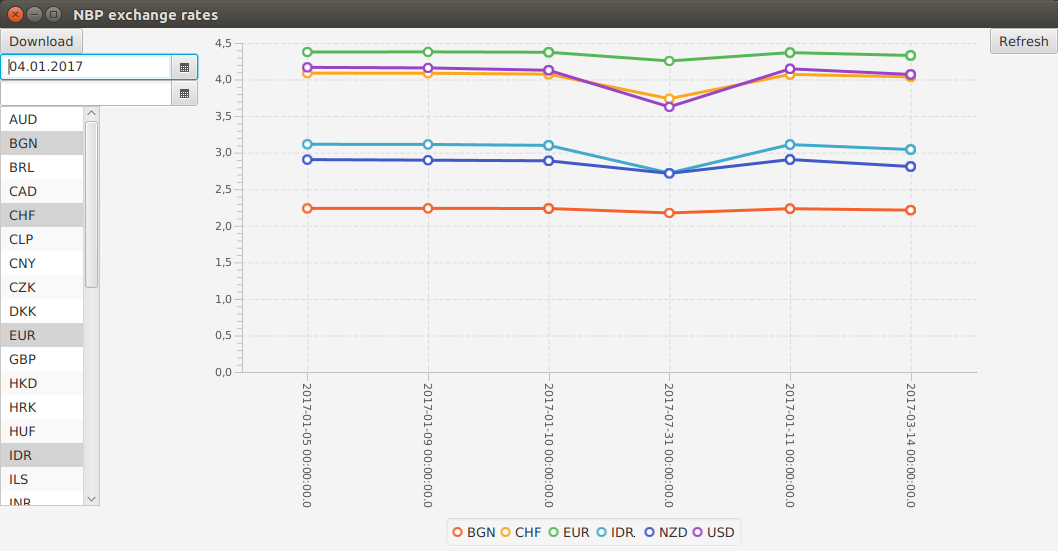
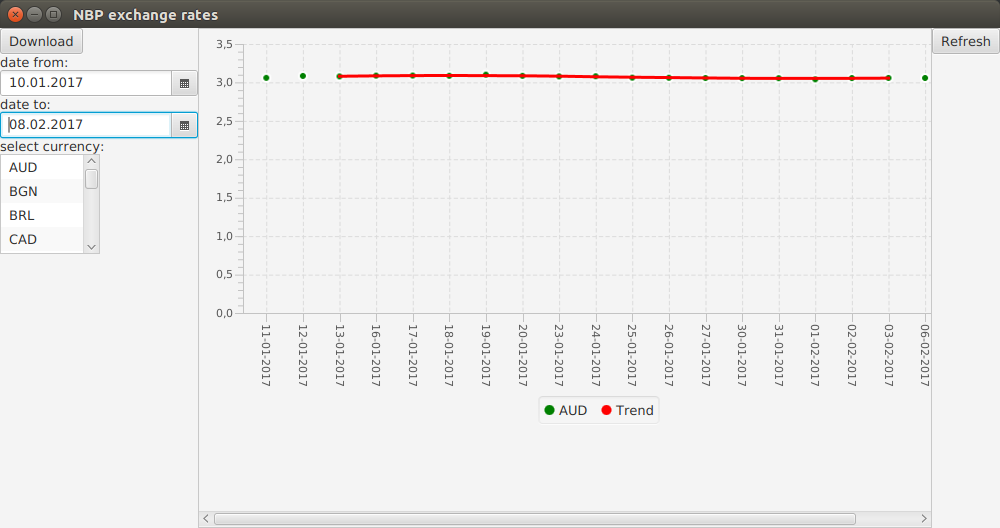
update v3

diff --git a/src/main/java/com/kzawilski/controllers/MainController.java b/src/main/java/com/kzawilski/controllers/MainController.java
@@ -1,6 +1,7 @@
 package com.kzawilski.controllers;
 
 import com.kzawilski.common.DownloadFileServices;
+import com.kzawilski.common.Prediction;
 import com.kzawilski.database.DataManager;
 import com.kzawilski.database.domain.ExchangeRate;
 import javafx.collections.FXCollections;
@@ -53,7 +54,7 @@ public class MainController implements Initializable {
         codes = new TreeSet<>();
         chartPane.setHbarPolicy(ScrollPane.ScrollBarPolicy.ALWAYS);
         chartPane.setVbarPolicy(ScrollPane.ScrollBarPolicy.NEVER);
-        chart.setMaxSize(Double.MAX_VALUE, 500);
+        chart.setAnimated(false);
         fromDatePicker.setOnAction(t -> {
             LocalDate date = fromDatePicker.getValue();
             System.out.println("Selected date: " + date);
@@ -94,8 +95,6 @@ public class MainController implements Initializable {
 
     public void DrawChart() {
         chart.getData().clear();
-        Series series = new Series();
-        series.setName(selectedCurrency);
         SimpleDateFormat dateFormat = new SimpleDateFormat("dd-MM-yyyy");
 
         List<ExchangeRate> rates = this.rates.stream().filter(rate ->
@@ -103,16 +102,31 @@ public class MainController implements Initializable {
                         && (toDate == null || rate.getDate().before(toDate))
                         && (fromDate == null || rate.getDate().after(fromDate))
         ).collect(Collectors.toList());
-        List<Data> data = new ArrayList<>();
-        for (ExchangeRate rate : rates) {
-            data.add(new Data(
-                            dateFormat.format(rate.getDate()),
-                            rate.getRate()
-                    )
-            );
+        Prediction prediction = new Prediction(rates);
+
+        Date[] dates = prediction.getDateSeries();
+        Double[] series = prediction.getRateSeries();
+        Double[] trend = prediction.getTrend();
+
+        Series series0 = new Series();
+        series0.setName(selectedCurrency);
+        Series series1 = new Series();
+        series1.setName("Trend");
+
+        List<Data> data0 = new ArrayList<>();
+        List<Data> data1 = new ArrayList<>();
+
+        for (int i = 0; i < dates.length; i++) {
+            data0.add(new Data(dateFormat.format(dates[i]),series[i]));
+            if (trend[i] != null) {
+                data1.add(new Data(dateFormat.format(dates[i]), trend[i]));
+            }
         }
-        series.getData().addAll(data);
-        chart.getData().add(series);
+
+        series0.getData().addAll(data0);
+        series1.getData().addAll(data1);
+        chart.getData().addAll(series0,series1);
+        chart.setPrefWidth(dates.length*40.0);
     }
 
     public void openDownloadDialog(ActionEvent actionEvent) {

diff --git a/src/main/java/com/kzawilski/common/Prediction.java b/src/main/java/com/kzawilski/common/Prediction.java
@@ -1,0 +1,65 @@
+package com.kzawilski.common;
+
+import com.kzawilski.database.domain.ExchangeRate;
+
+import java.util.Date;
+import java.util.List;
+
+public class Prediction {
+    Date[] dateSeries;
+    Double[] rateSeries;
+    Double[] trend;
+    Double mean;
+    int size;
+
+    public Prediction(List<ExchangeRate> rates) {
+        size = rates.size();
+        trend = new Double[size];
+        dateSeries = new Date[size];
+        rateSeries = new Double[size];
+        for (int i = 0; i < size; i++) {
+            dateSeries[i] = rates.get(i).getDate();
+            rateSeries[i] = rates.get(i).getRate();
+        }
+        prepare();
+    }
+
+    public Prediction(Date[] dateSeries, Double[] rateSeries) throws Exception {
+        if (dateSeries.length != rateSeries.length){
+            throw new Exception("invalid lengths");
+        }
+        this.dateSeries = dateSeries;
+        this.rateSeries = rateSeries;
+        size = dateSeries.length;
+        prepare();
+    }
+
+    private void prepare(){
+        Double sum = 0.0;
+        for (Double d : rateSeries){
+            sum += d;
+        }
+        mean = sum/size;
+
+        for (int i = 2; i < size - 2; i++) {
+            Double subSum = 0.0;
+            for (int j = i-2; j < i + 3; j++){
+                subSum += rateSeries[j];
+            }
+            trend[i] = subSum/5;
+        }
+        // TODO prediction
+    }
+
+    public Date[] getDateSeries() {
+        return dateSeries;
+    }
+
+    public Double[] getRateSeries() {
+        return rateSeries;
+    }
+
+    public Double[] getTrend() {
+        return trend;
+    }
+}

diff --git a/src/main/java/com/kzawilski/database/domain/ExchangeRate.java b/src/main/java/com/kzawilski/database/domain/ExchangeRate.java
@@ -31,7 +31,7 @@ public class ExchangeRate implements Serializable {
     @Column(name = "RATE")
     private Double rate;
 
-    @Column(name = "ATE")
+    @Column(name = "DATE")
     private Date date;
 
     public long getId() {
